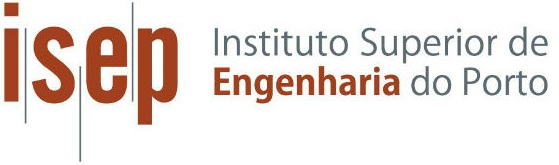
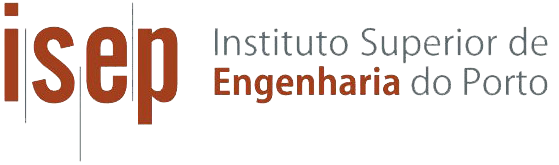
no message

diff --git a/www/rcomp-script.js b/www/rcomp-script.js
@@ -2,6 +2,7 @@
 var nextMsg;
 var isWall=0;
 var  finalMessage;
+var a;
 var mArea, messageBox/*, hints*/, numberBox ,wallName, messageNumber; // defined only after the document is loaded
 
 function loadAndStart() {
@@ -9,8 +10,32 @@ function loadAndStart() {
     messageBox=document.getElementById("message");
 	numberBox=document.getElementById("number_message_delete");
     /*hints=document.getElementById("hints");*/
+	hideContent();
+	a = 0;
     setTimeout(getNextMessage, 1000);
     }
+	
+function hideContent() {
+	document.getElementById("messages").style.visibility="hidden";
+	document.getElementById("message").style.visibility="hidden";
+	document.getElementById("message_text").style.visibility="hidden";
+	document.getElementById("number_message_delete").style.visibility="hidden";
+	document.getElementById("number_text").style.visibility="hidden";
+	document.getElementById("send_button").style.visibility="hidden";
+	document.getElementById("mdel_button").style.visibility="hidden";
+	document.getElementById("wdel_button").style.visibility="hidden";
+}
+
+function showContent() {
+	document.getElementById("messages").style.visibility="visible";
+	document.getElementById("message").style.visibility="visible";
+	document.getElementById("message_text").style.visibility="visible";
+	document.getElementById("number_message_delete").style.visibility="visible";
+	document.getElementById("number_text").style.visibility="visible";
+	document.getElementById("send_button").style.visibility="visible";
+	document.getElementById("mdel_button").style.visibility="visible";
+	document.getElementById("wdel_button").style.visibility="visible";
+}
 
 function getNextMessage() {
     var request = new XMLHttpRequest();
@@ -54,10 +79,19 @@ function setWall(){
 	wallName=wallBox.value;
 	
 	if(Boolean(wallName)){
-		document.getElementById("currentWall").innerHTML = wallName;
-		nextMsg=0;	
+		document.getElementById("currentWall").innerHTML = "Current wall: ".concat(wallName);
+		nextMsg=0;
+		if (a == 0) {
+			showContent();
+			a=1;
+		}
+		
 	}else{
 		document.getElementById("currentWall").innerHTML = "Wall name can't be empty.";
+		if (a == 1) {
+			hideContent();
+			a=0;
+		}
         return;
 	}
 }
@@ -102,6 +136,16 @@ function deleteMessage(){
 function deleteWall(){
 	var DELETErequest = new XMLHttpRequest();
 	DELETErequest.open("DELETE", "/walls/"+wallName, true);
+	DELETErequest.timeout = 5000;
+    DELETErequest.send();
+	wallName="";
+	document.getElementById("currentWall").innerHTML="No wall selected";
+	document.getElementById("currentWall").innerHTML = "Wall name can't be empty.";
+		if (a == 1) {
+			hideContent();
+			a=0;
+		}
+        return;
 	/*nextMsg=nextMsg-1;*/
 	}
 	

diff --git a/www/index.html b/www/index.html
@@ -2,36 +2,22 @@
 <script src="rcomp-script.js"></script>
 </head>
 <body bgcolor="#E6E6FA" onload="loadAndStart()">
-
-<img src="isep.png" height="100" width="500" align="right"></img>
+<img src="isep.png" height="100" width="300" align="right"></img>
 <h1>HTTP SERVER  - Aplication</h1>
-<br>
-<hr>
-<br>
 <p id="wall_text" >Wall:</p> 
 <input type="text" id="wall" size="10"><input type="button" value="Set Wall" onclick="setWall();getNextMessage();">
-<br>
 <span id="currentWall">No wall selected</span>
-<br>
-<br>
 <hr>
-<textarea id="messages" rows="32" cols="260" readonly>
+<textarea id="messages" rows="19" cols="175" readonly>
 No messages 
 </textarea>
 <hr>
-<br>
-<p id="wall_text" >Message:</p>    
-<input type="text" id="message" size="100"><input type="button" value="Send" onclick="postMessage(document.getElementById('wall'))">
-<br>
-<br>
+<p id="message_text" >Message:</p>    
+<input type="text" id="message" size="50"><input type="button" id="send_button" value="Send" onclick="postMessage(document.getElementById('wall'))">
 <hr>
-<br>
-<p id="wall_text" >Message number:</p>
-<input type="text" id="number_message_delete" size="5"><input type="button" value="Delete Message" onclick="deleteMessage()">
-<br>
-<br>
+<p id="number_text" >Message number:</p>
+<input type="text" id="number_message_delete" size="5"><input type="button" id="mdel_button" value="Delete Message" onclick="deleteMessage()">
 <hr>
-<br>
-<input type="button" value="Delete current wall" onclick="deleteWall()">
+<input type="button" id ="wdel_button" value="Delete current wall" onclick="deleteWall()">
 </body></html>
 

diff --git a/src/rcomp/HttpChatRequest.java b/src/rcomp/HttpChatRequest.java
@@ -3,7 +3,6 @@ package rcomp;
 import java.io.*;
 import java.net.*;
 import java.util.ArrayList;
-import rcomp.HTTPmessage;
 
 /**
  *
@@ -34,92 +33,101 @@ public class HttpChatRequest extends Thread {
             HTTPmessage response = new HTTPmessage();
             response.setResponseStatus("200 Ok");
 
-            if (request.getMethod().equals("GET")) {
-                int numMsgs = 0;
-                if (request.getURI().startsWith("/walls/")) {
-                    String wallName = request.getURI().substring(7);
-                    if (wallName.equals("") || wallName.contains("/")) {
-                        response.setContentFromString(
-                                "<html><body><h1>ERROR: 405 Method Not Allowed (Wall name cant't be empty)</h1></body></html>",
-                                "text/html");
-                        response.setResponseStatus("405 Method Not Allowed");
-                    } else if (wallName.equals("undefined")) {
-                        response.setContentFromString("No messages", "text/plain");
-                        response.setResponseStatus("200 Ok");
-                    } else {
-                        ArrayList<String> msgs = HttpServerChat.getMsg(wallName);
-                        // if msgNum doesn't yet exist, the getMsg() method waits
-                        // until it does. So the HTTP request was received, but the
-                        // HTTP response is sent only when there's a message
-                        if (msgs != null) {
-                            response.setContentFromStringArray(msgs, "text/plain");
-                            response.setResponseStatus("200 Ok");
-                        } else {
+            switch (request.getMethod()) {
+                case "GET":
+                    int numMsgs = 0;
+                    if (request.getURI().startsWith("/walls/")) {
+                        String wallName = request.getURI().substring(7);
+                        if (wallName.equals("") || wallName.contains("/")) {
+                            response.setContentFromString(
+                                    "ERROR: 405 Method Not Allowed (Wall name cant't be empty)",
+                                    "text/plain");
+                            response.setResponseStatus("405 Method Not Allowed");
+                        } else if (wallName.equals("undefined")) {
                             response.setContentFromString("No messages", "text/plain");
                             response.setResponseStatus("200 Ok");
-                        }
-                    }
-                } else { // NOT GET /walls/ , THEN IT MUST BE A FILE
-                    String fullname = baseFolder + "/";
-                    if (request.getURI().equals("/")) {
-                        fullname = fullname + "index.html";
-                    } else {
-                        fullname = fullname + request.getURI();
-                    }
-                    if (!response.setContentFromFile(fullname)) {
-                        response.setContentFromString(
-                                "<html><body><h1>404 File not found</h1></body></html>",
-                                "text/html");
-                        response.setResponseStatus("404 Not Found");
-                    }
-                }
-            } else if (request.getMethod().equals("POST")) { // NOT GET, must be POST
-                if (request.getURI().startsWith("/walls/")) {
-                    String wallName = request.getURI().substring(7);
-                    if (wallName.equals("") || wallName.contains("/")) {
-                        response.setContentFromString(
-                                "<html><body><h1>ERROR: 405 Method Not Allowed</h1></body></html>",
-                                "text/html");
-                        response.setResponseStatus("405 Method Not Allowed");
-                    } else {
-                        HttpServerChat.addMsg(wallName, request.getContentAsString());
-                        response.setResponseStatus("200 Ok");
-                    }
-                } else {
-                    response.setContentFromString(
-                            "<html><body><h1>ERROR: 405 Method Not Allowed</h1></body></html>",
-                            "text/html");
-                    response.setResponseStatus("405 Method Not Allowed");
-                }
-            } else if (request.getMethod().equals("DELETE")) {
-                if (request.getURI().startsWith("/walls/")) {
-                    String wallNameNumber = request.getURI().substring(7);
-                    if (wallNameNumber.equals("")) {
-                        response.setContentFromString(
-                                "<html><body><h1>ERROR: 405 Method Not Allowed</h1></body></html>",
-                                "text/html");
-                        response.setResponseStatus("405 Method Not Allowed");
-                    } else {
-                        if (wallNameNumber.contains("/")) {
-                            String[] wallArray = wallNameNumber.split("/");
-                            if (wallArray.length != 2) {
-                                response.setContentFromString(
-                                        "<html><body><h1>ERROR: 405 Method Not Allowed</h1></body></html>",
-                                        "text/html");
-                                response.setResponseStatus("405 Method Not Allowed");
+                        } else {
+                            ArrayList<String> msgs = HttpServerChat.getMsg(wallName);
+                            // if msgNum doesn't yet exist, the getMsg() method waits
+                            // until it does. So the HTTP request was received, but the
+                            // HTTP response is sent only when there's a message
+                            if (msgs != null) {
+                                response.setContentFromStringArray(msgs, "text/plain");
+                                response.setResponseStatus("200 Ok");
                             } else {
-                                try {
-                                    int messageNumber = Integer.parseInt(wallArray[1]);
-                                    HttpServerChat.delMsg(wallArray[0], messageNumber);
-                                } catch (NumberFormatException ex) {
-                                    System.out.println("Parsing error!");
+                                response.setContentFromString("No messages", "text/plain");
+                                response.setResponseStatus("200 Ok");
+                            }
+                        }
+                    } else { // NOT GET /walls/ , THEN IT MUST BE A FILE
+                        String fullname = baseFolder + "/";
+                        if (request.getURI().equals("/")) {
+                            fullname = fullname + "index.html";
+                        } else {
+                            fullname = fullname + request.getURI();
+                        }
+                        if (!response.setContentFromFile(fullname)) {
+                            response.setContentFromString(
+                                    "<html><body><h1>404 File not found</h1></body></html>",
+                                    "text/html");
+                            response.setResponseStatus("404 Not Found");
+                        }
+                    }   break;
+                case "POST":
+                    // NOT GET, must be POST
+                    if (request.getURI().startsWith("/walls/")) {
+                        String wallName = request.getURI().substring(7);
+                        if (wallName.equals("") || wallName.contains("/")) {
+                            response.setContentFromString(
+                                    "<html><body><h1>ERROR: 405 Method Not Allowed</h1></body></html>",
+                                    "text/html");
+                            response.setResponseStatus("405 Method Not Allowed");
+                        } else {
+                            HttpServerChat.addMsg(wallName, request.getContentAsString());
+                            response.setResponseStatus("200 Ok");
+                        }
+                    } else {
+                        response.setContentFromString(
+                                "<html><body><h1>ERROR: 405 Method Not Allowed</h1></body></html>",
+                                "text/html");
+                        response.setResponseStatus("405 Method Not Allowed");
+                    }   break;
+                case "DELETE":
+                    if (request.getURI().startsWith("/walls/")) {
+                        String wallNameNumber = request.getURI().substring(7);
+                        if (wallNameNumber.equals("")) {
+                            response.setContentFromString(
+                                    "<html><body><h1>ERROR: 405 Method Not Allowed</h1></body></html>",
+                                    "text/html");
+                            response.setResponseStatus("405 Method Not Allowed");
+                        } else {
+                            if (wallNameNumber.contains("/")) {
+                                String[] wallArray = wallNameNumber.split("/");
+                                if (wallArray.length != 2) {
+                                    response.setContentFromString(
+                                            "<html><body><h1>ERROR: 405 Method Not Allowed</h1></body></html>",
+                                            "text/html");
+                                    response.setResponseStatus("405 Method Not Allowed");
+                                } else {
+                                    try {
+                                        int messageNumber = Integer.parseInt(wallArray[1]);
+                                        HttpServerChat.delMsg(wallArray[0], messageNumber);
+                                    } catch (NumberFormatException ex) {
+                                        System.out.println("Parsing error!");
+                                    }
+                                }
+                            } else {
+                                if (!HttpServerChat.delWall(wallNameNumber)) {
+                                    response.setContentFromString(
+                                            "<html><body><h1>ERROR: 405 Method Not Allowed</h1></body></html>",
+                                            "text/html");
+                                    response.setResponseStatus("405 Method Not Allowed");
                                 }
                             }
-                        } else {
-                            HttpServerChat.delWall(wallNameNumber);
                         }
-                    }
-                }
+                    }   break;
+                default:
+                    break;
             }
             response.send(outS); // SEND THE HTTP RESPONSE
         } catch (IOException ex) {

diff --git a/src/rcomp/HttpServerChat.java b/src/rcomp/HttpServerChat.java
@@ -80,10 +80,11 @@ public class HttpServerChat {
         }
     }
 
-    public static void delWall(String wallName) {
+    public static boolean delWall(String wallName) {
         synchronized (WALL_LIST) {
-            WALL_LIST.remove(wallName);
+            ArrayList<String> returnable = WALL_LIST.remove(wallName);
             WALL_LIST.notifyAll();
+            return returnable != null;
         }
     }
 
